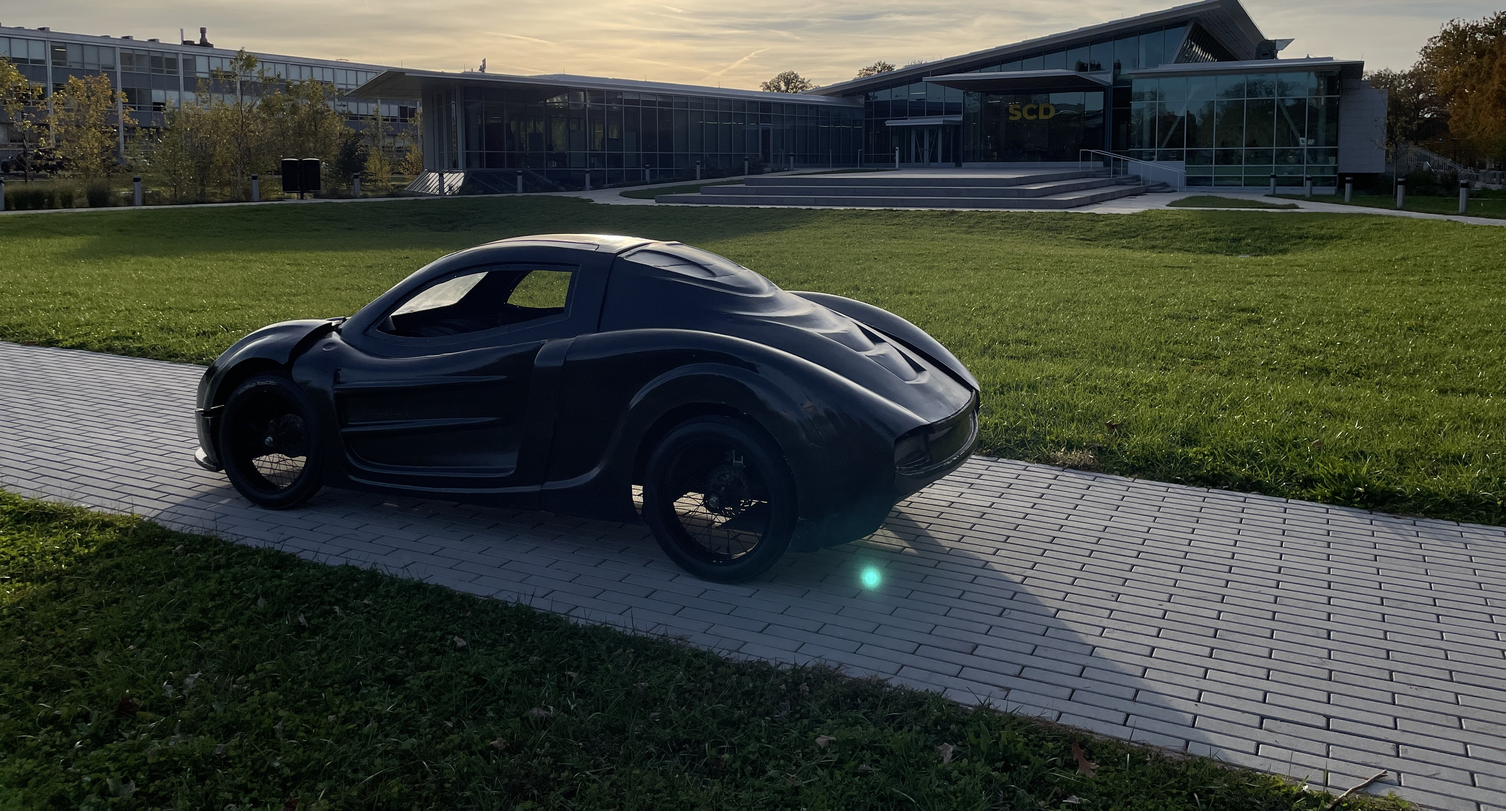
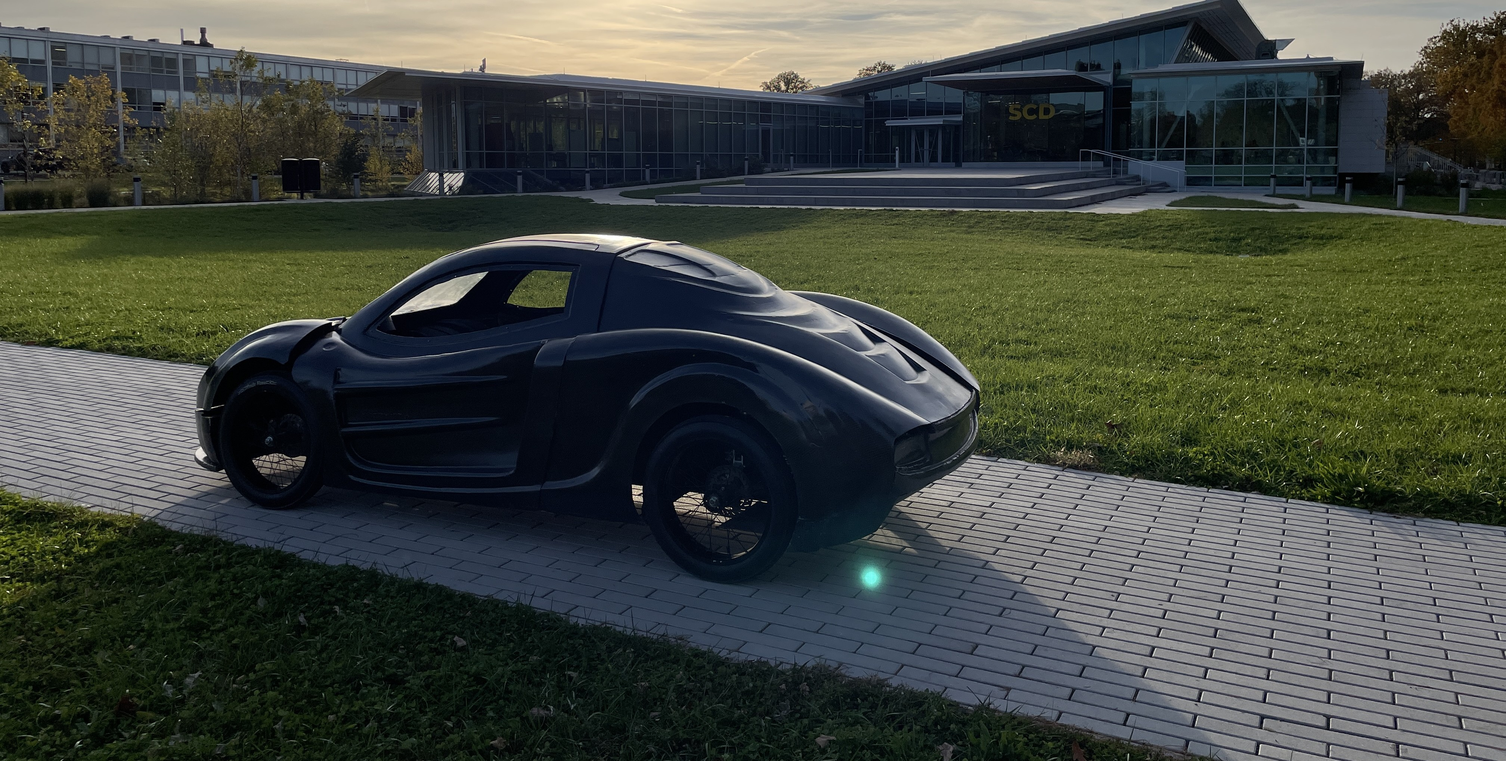
finished-ish home page

diff --git a/src/app/layout.js b/src/app/layout.js
@@ -80,6 +80,7 @@ function Footer() {
           rel="noreferrer"
         >
           <svg
+            className="fill-[#1a1a1a] transition duration-200 hover:fill-[#6d6d6d]"
             version="1.0"
             xmlns="http://www.w3.org/2000/svg"
             width="40px"
@@ -88,7 +89,6 @@ function Footer() {
             preserveAspectRatio="xMidYMid meet"
           >
             <g
-              className="fill-[#1a1a1a] transition duration-200 hover:fill-[#6d6d6d]"
               transform="translate(0.000000,448.000000) scale(0.100000,-0.100000)"
               stroke="none"
             >
@@ -116,6 +116,7 @@ function Footer() {
           rel="noreferrer"
         >
           <svg
+            className="fill-[#1a1a1a] transition duration-200 hover:fill-[#6d6d6d]"
             version="1.0"
             xmlns="http://www.w3.org/2000/svg"
             width="40px"
@@ -124,10 +125,7 @@ function Footer() {
             preserveAspectRatio="xMidYMid meet"
             transform="scale(1.4) translate(0, -4.5)"
           >
-            <g
-              className="fill-[#1a1a1a] transition duration-200 hover:fill-[#6d6d6d]"
-              stroke="none"
-            >
+            <g stroke="none">
               <path d="m 257.129 129.761 c -40.7336 0 -45.8401 0.25899 -61.8374 0.91733 c -15.9644 0.7292 -26.846 3.22727 -36.3856 6.93669 c -9.8635 3.83171 -18.2621 8.98306 -26.6002 17.3216 c -8.33835 8.33859 -13.4417 16.6912 -17.2741 26.5541 c -3.70877 9.54051 -6.25479 20.4665 -6.98302 36.431 c -0.73154 15.9973 -0.91968 21.104 -0.91968 61.8372 c 0 40.7355 0.18808 45.8398 0.91968 61.8372 c 0.72919 15.9644 3.27425 26.8458 6.98302 36.3863 c 3.83243 9.86278 8.93577 18.2155 17.2741 26.554 c 8.33811 8.33859 16.7367 13.4853 26.6002 17.3193 c 9.53961 3.70708 20.4212 6.25455 36.3856 6.98374 c 15.9973 0.7292 21.1038 0.87029 61.8374 0.87029 c 40.7336 0 45.8398 -0.23496 61.8374 -0.87029 c 15.9642 -0.72919 26.8918 -3.27666 36.4315 -6.98374 c 9.8635 -3.83405 18.2162 -8.98071 26.5543 -17.3193 c 8.33835 -8.33854 13.4415 -16.6912 17.2739 -26.554 c 3.70876 -9.54057 6.25503 -20.4219 6.98326 -36.3863 c 0.73154 -15.9973 0.91968 -21.1016 0.91968 -61.8372 c 0 -40.7332 -0.18808 -45.8398 -0.91968 -61.8372 c -0.7292 -15.9644 -3.2745 -26.8905 -6.98326 -36.431 c -3.83243 -9.86284 -8.93553 -18.2155 -17.2739 -26.5541 c -8.33811 -8.33859 -16.6908 -13.4899 -26.5543 -17.3216 c -9.53962 -3.70942 -20.4673 -6.20749 -36.4315 -6.93669 c -15.9973 -0.72919 -21.1038 -0.91733 -61.8374 -0.91733 Z m 0 27.0128 c 40.0477 0 44.7809 0.23495 60.5968 0.87028 c 14.623 0.65865 22.6014 3.13785 27.8866 5.19137 c 7.00117 2.72149 11.9801 5.96281 17.2281 11.2106 c 5.24894 5.24779 8.48978 10.2274 11.2096 17.2275 c 2.05353 5.28542 4.52401 13.2641 5.19155 27.8854 c 0.71982 15.8162 0.87269 20.5512 0.87269 60.5976 c 0 40.0486 -0.16464 44.7837 -0.87269 60.5976 c -0.66802 14.6237 -3.13802 22.5553 -5.19155 27.8407 c -2.71986 7.00014 -5.9607 12.0221 -11.2096 17.2722 c -5.24803 5.2478 -10.2269 8.48912 -17.2281 11.2106 c -5.28517 2.04643 -13.2636 4.48099 -27.8866 5.14667 c -15.8136 0.72913 -20.5455 0.87028 -60.5968 0.87028 c -40.0513 0 -44.7832 -0.23495 -60.5968 -0.87028 c -14.623 -0.65865 -22.5556 -3.09321 -27.8407 -5.14667 c -7.0011 -2.72148 -12.0259 -5.9628 -17.2739 -11.2106 c -5.24773 -5.25014 -8.48863 -10.2721 -11.2096 -17.2722 c -2.05352 -5.28541 -4.47792 -13.2171 -5.14546 -27.8407 c -0.71982 -15.8139 -0.87269 -20.5489 -0.87269 -60.5976 c 0 -40.0464 0.16465 -44.7813 0.87269 -60.5976 c 0.66803 -14.6213 3.09194 -22.6 5.14546 -27.8854 c 2.72101 -7.00014 5.96191 -11.9797 11.2096 -17.2275 c 5.24804 -5.2478 10.2728 -8.48912 17.2739 -11.2106 c 5.28517 -2.04643 13.2177 -4.52334 27.8407 -5.19137 c 15.816 -0.72913 20.5491 -0.87028 60.5968 -0.87028 Z m 80.0762 24.9005 c -9.93951 0 -18.0092 8.06807 -18.0092 18.0085 c 0 9.94042 8.06969 18.0085 18.0092 18.0085 c 9.94066 0 18.009 -8.06812 18.009 -18.0085 c 0 -9.94041 -8.0683 -18.0085 -18.009 -18.0085 Z m -80.0762 21.0405 c -42.5361 0 -76.9981 34.5092 -76.9981 77.0442 c 0 42.5373 34.4619 76.9971 76.9981 76.9971 c 42.5361 0 77.0439 -34.4598 77.0439 -76.9971 c 0 -42.5349 -34.5078 -77.0442 -77.0439 -77.0442 Z m 0 27.0598 c 27.6116 0 49.9844 22.3741 49.9844 49.9844 c 0 27.6126 -22.3728 49.9844 -49.9844 49.9844 c -27.6116 0 -49.9844 -22.3718 -49.9844 -49.9844 c 0 -27.6102 22.3728 -49.9844 49.9844 -49.9844 Z" />
             </g>
           </svg>

diff --git a/src/app/page.js b/src/app/page.js
@@ -4,13 +4,75 @@ import Image from "next/image";
 
 export default function Home() {
   return (
-    <div>
+    <div
+      className=" overflow-y-auto overflow-x-hidden"
+      style={{ perspective: "10px" }}
+    >
+      <div
+        className="text-center -z-10  relative h-screen bg-fixed bg-center bg-cover"
+        style={{
+          backgroundImage: "url('/images/homepage/sunsetcar.jpg')",
+          transformStyle: "preserve-3d",
+        }}
+      >
+        <header className="text-right pr-12 flex flex-col gap-2 absolute z-10 w-full top-1/4">
+          <h2 className="text-[#F7931E] text-8xl font-semibold">
+            ILLINI <br />
+            EV <br />
+            CONCEPT
+          </h2>
+          <p className="text-white italic text-xl">
+            Driving innovation to fuel our electric future.{" "}
+          </p>
+        </header>
+      </div>
+      <div className="bg-[#F7931E] p-4 flex flex-row pl-20 pr-20 gap-20 h-60 items-center">
+        <h2 className="font-semibold text-6xl ">OUR MISSION:</h2>
+        <div className=" ml-60 text-xl italic text-right">
+          {" "}
+          EV Concept is a team of interdisciplinary engineers dedicated to
+          advancing electric vehicle technology. We research, design and
+          manufacture our own vehicles from scratch for various competitions,
+          most notably being the Shell-Eco Marathon.
+        </div>
+      </div>
       <Image
-        src="/images/homepage/sunsetcar.jpg"
-        alt="sunsetcar"
-        width="5000"
-        height="5000"
+        src="/images/homepage/shellecocar.jpg"
+        alt="carwflag"
+        width="2000"
+        height="2000"
+        style={{ objectFit: "cover" }}
       />
+      <div className="p-10 mb-12">
+        <header className="font-semibold text-3xl">WHY JOIN OUR TEAM?</header>
+        <p className="pt-5 pb-16 text-lg">
+          Joining EV Concept will give you a unique, hands-on experience through
+          the process of designing and building a car, as we design and make the
+          whole car ourselves. We also let members choose projects to specialize
+          in, allowing for a deeper understanding of key components and
+          increased responsibility within the team.
+          <br></br>
+          Through EV Concept, many of our club alumni have gained the technical
+          and career skills they needed to join elite tech companies after they
+          graduated. If you're interested in getting personal mentorship in the
+          mechanical and electrical processes of designing a car as well as
+          first-hand experience in projects to help create the car, join our
+          Discord and follow our Instagram to learn more!
+        </p>
+        <a
+          href="https://discord.gg/Db4qpUrdtv"
+          target="_blank"
+          rel="noreferrer"
+          className="text-center text-xl p-3 border-4 border-solid border-[#F7931E]
+                    shadow-custom-inset-2 hover:shadow-custom-inset"
+          style={{
+            WebkitTransition: "ease-out 0.4s",
+            transition: "ease-out 0.4s",
+          }}
+        >
+          Join our Discord to get started!
+        </a>
+      </div>
     </div>
   );
 }

diff --git a/src/app/sponsors/page.js b/src/app/sponsors/page.js
@@ -1,5 +1,5 @@
 export const metadata = {
-  title: "Our Sponsors",
+  title: "Our Sponsors — Illini EV Concept",
   description: "Generated by create next app",
 };
 

diff --git a/src/app/contacts/page.js b/src/app/contacts/page.js
@@ -1,5 +1,5 @@
 export const metadata = {
-  title: "Contact Us",
+  title: "Contact Us — Illini EV Concept",
   description: "Generated by create next app",
 };
 

diff --git a/src/app/about/page.js b/src/app/about/page.js
@@ -1,5 +1,5 @@
 export const metadata = {
-  title: "About Us",
+  title: "About Us — Illini EV Concept",
   description: "Generated by create next app",
 };
 

diff --git a/src/app/cars/page.js b/src/app/cars/page.js
@@ -1,5 +1,5 @@
 export const metadata = {
-  title: "Our Cars",
+  title: "Our Cars — Illini EV Concept",
   description: "Generated by create next app",
 };
 

diff --git a/src/app/team/page.js b/src/app/team/page.js
@@ -1,5 +1,5 @@
 export const metadata = {
-  title: "Our Team",
+  title: "Our Team — Illini EV Concept",
   description: "Generated by create next app",
 };
 
